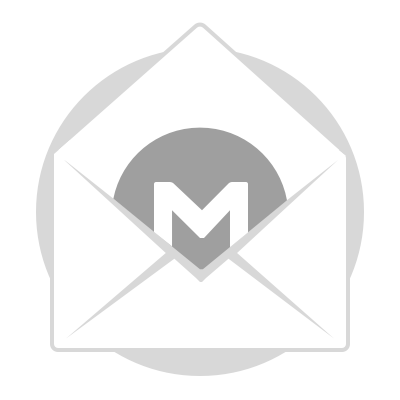
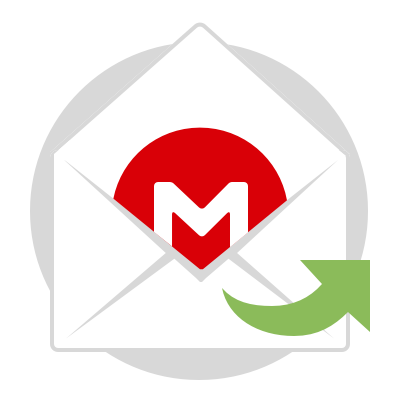
Changed text from Register to Create Account. Changed a few sprites.

diff --git a/html/top.html b/html/top.html
@@ -53,7 +53,7 @@
        <div class="top-menu-item corporate">Corporate pages</div> 
        <div class="context-menu-divider"></div>	   
 	   <div class="top-menu-item login">[$171]</div>
-	   <div class="top-menu-item register">[$170]</div>	   
+	   <div class="top-menu-item register">[$968]</div>	   
 	   <div class="top-menu-item clouddrive">[$164]</div> 
        <div class="top-menu-item account">[$187]</div>	   
        <div class="top-menu-item languages">[$670]</div>        
